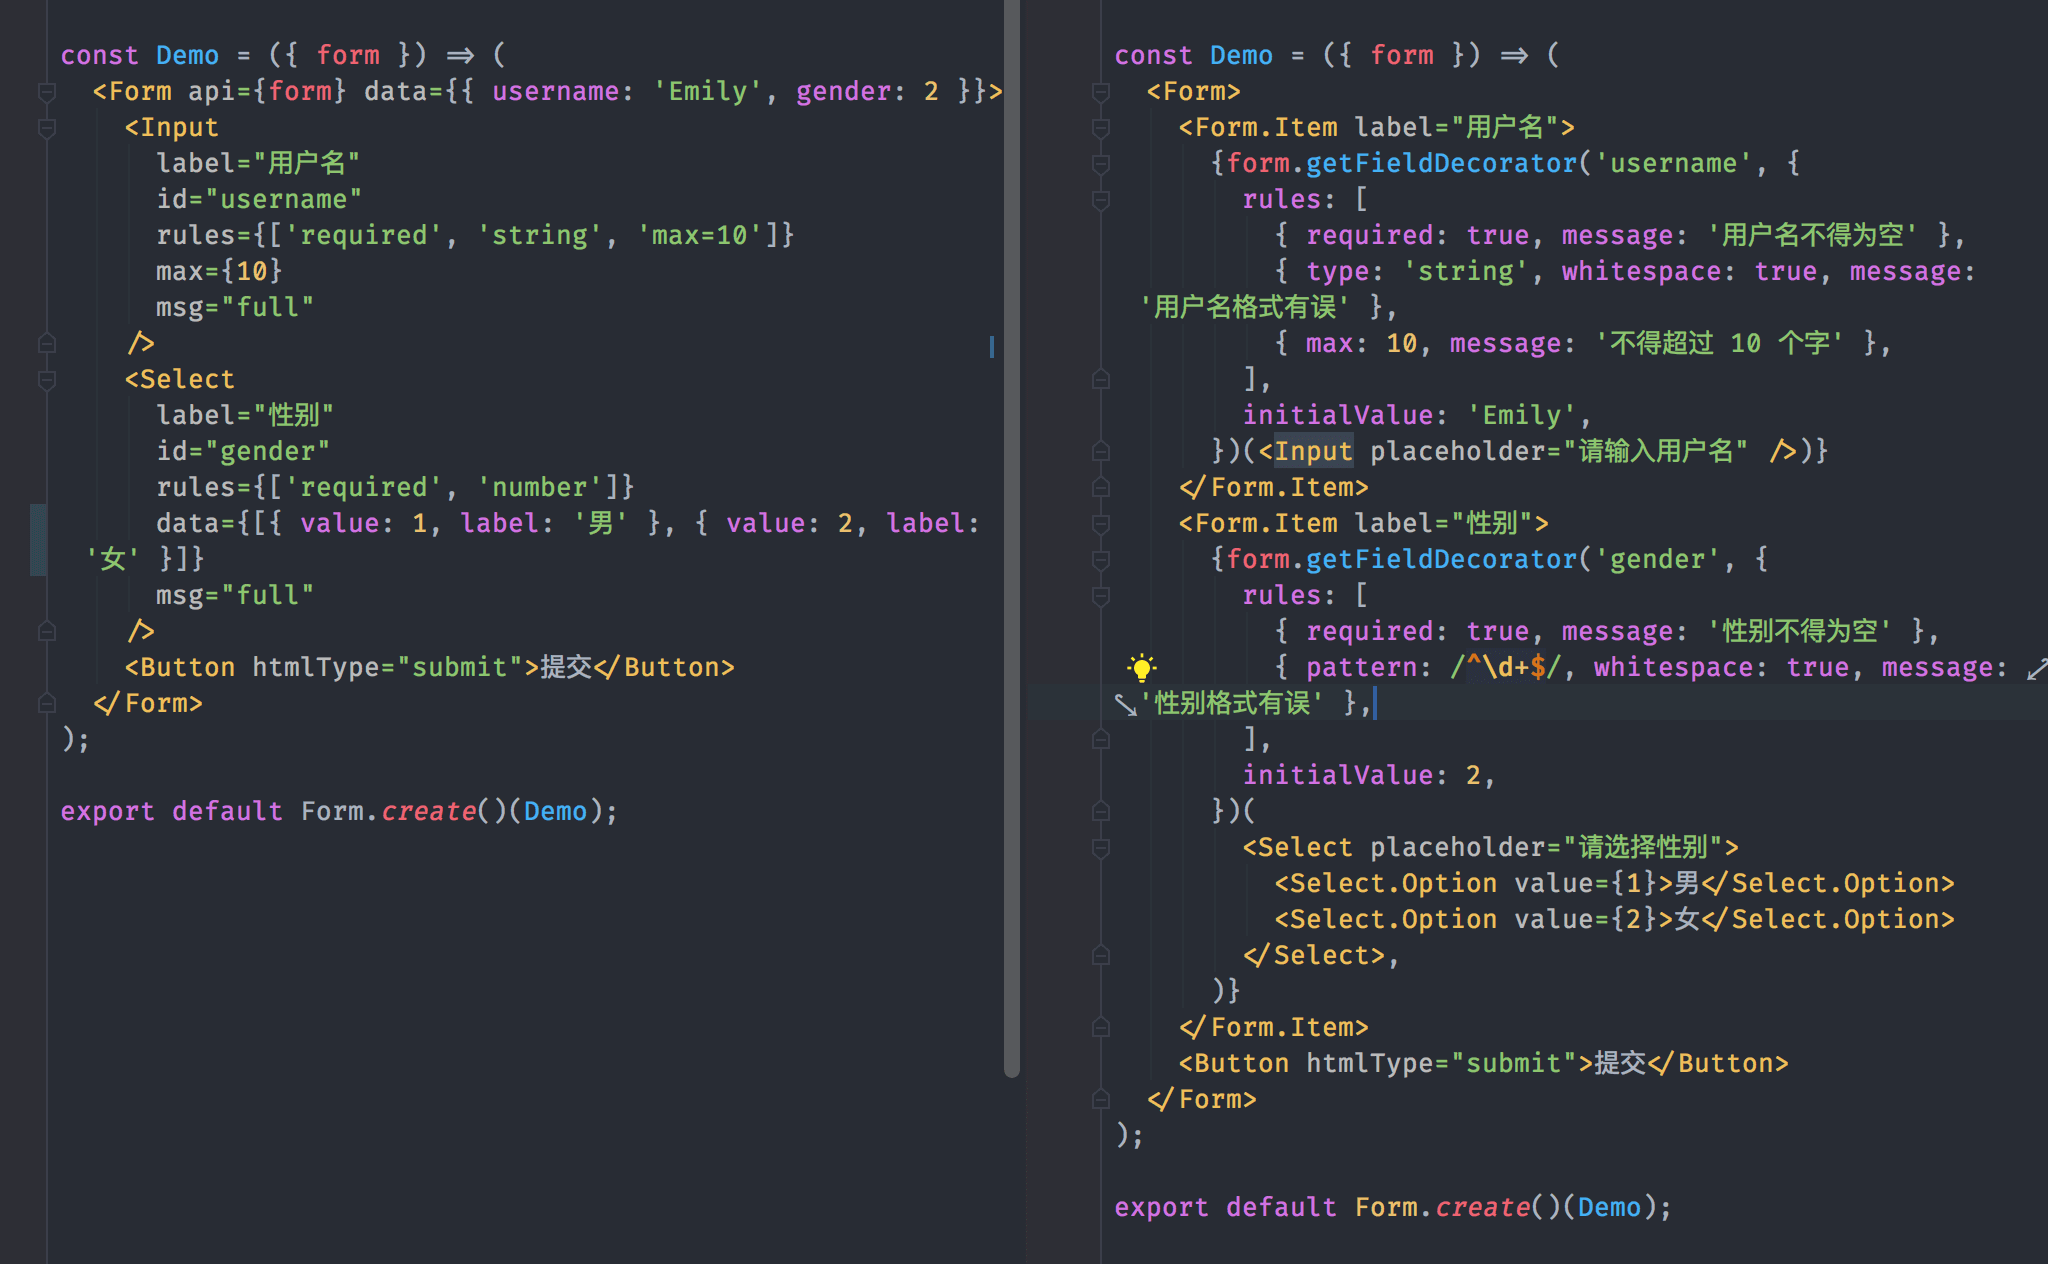
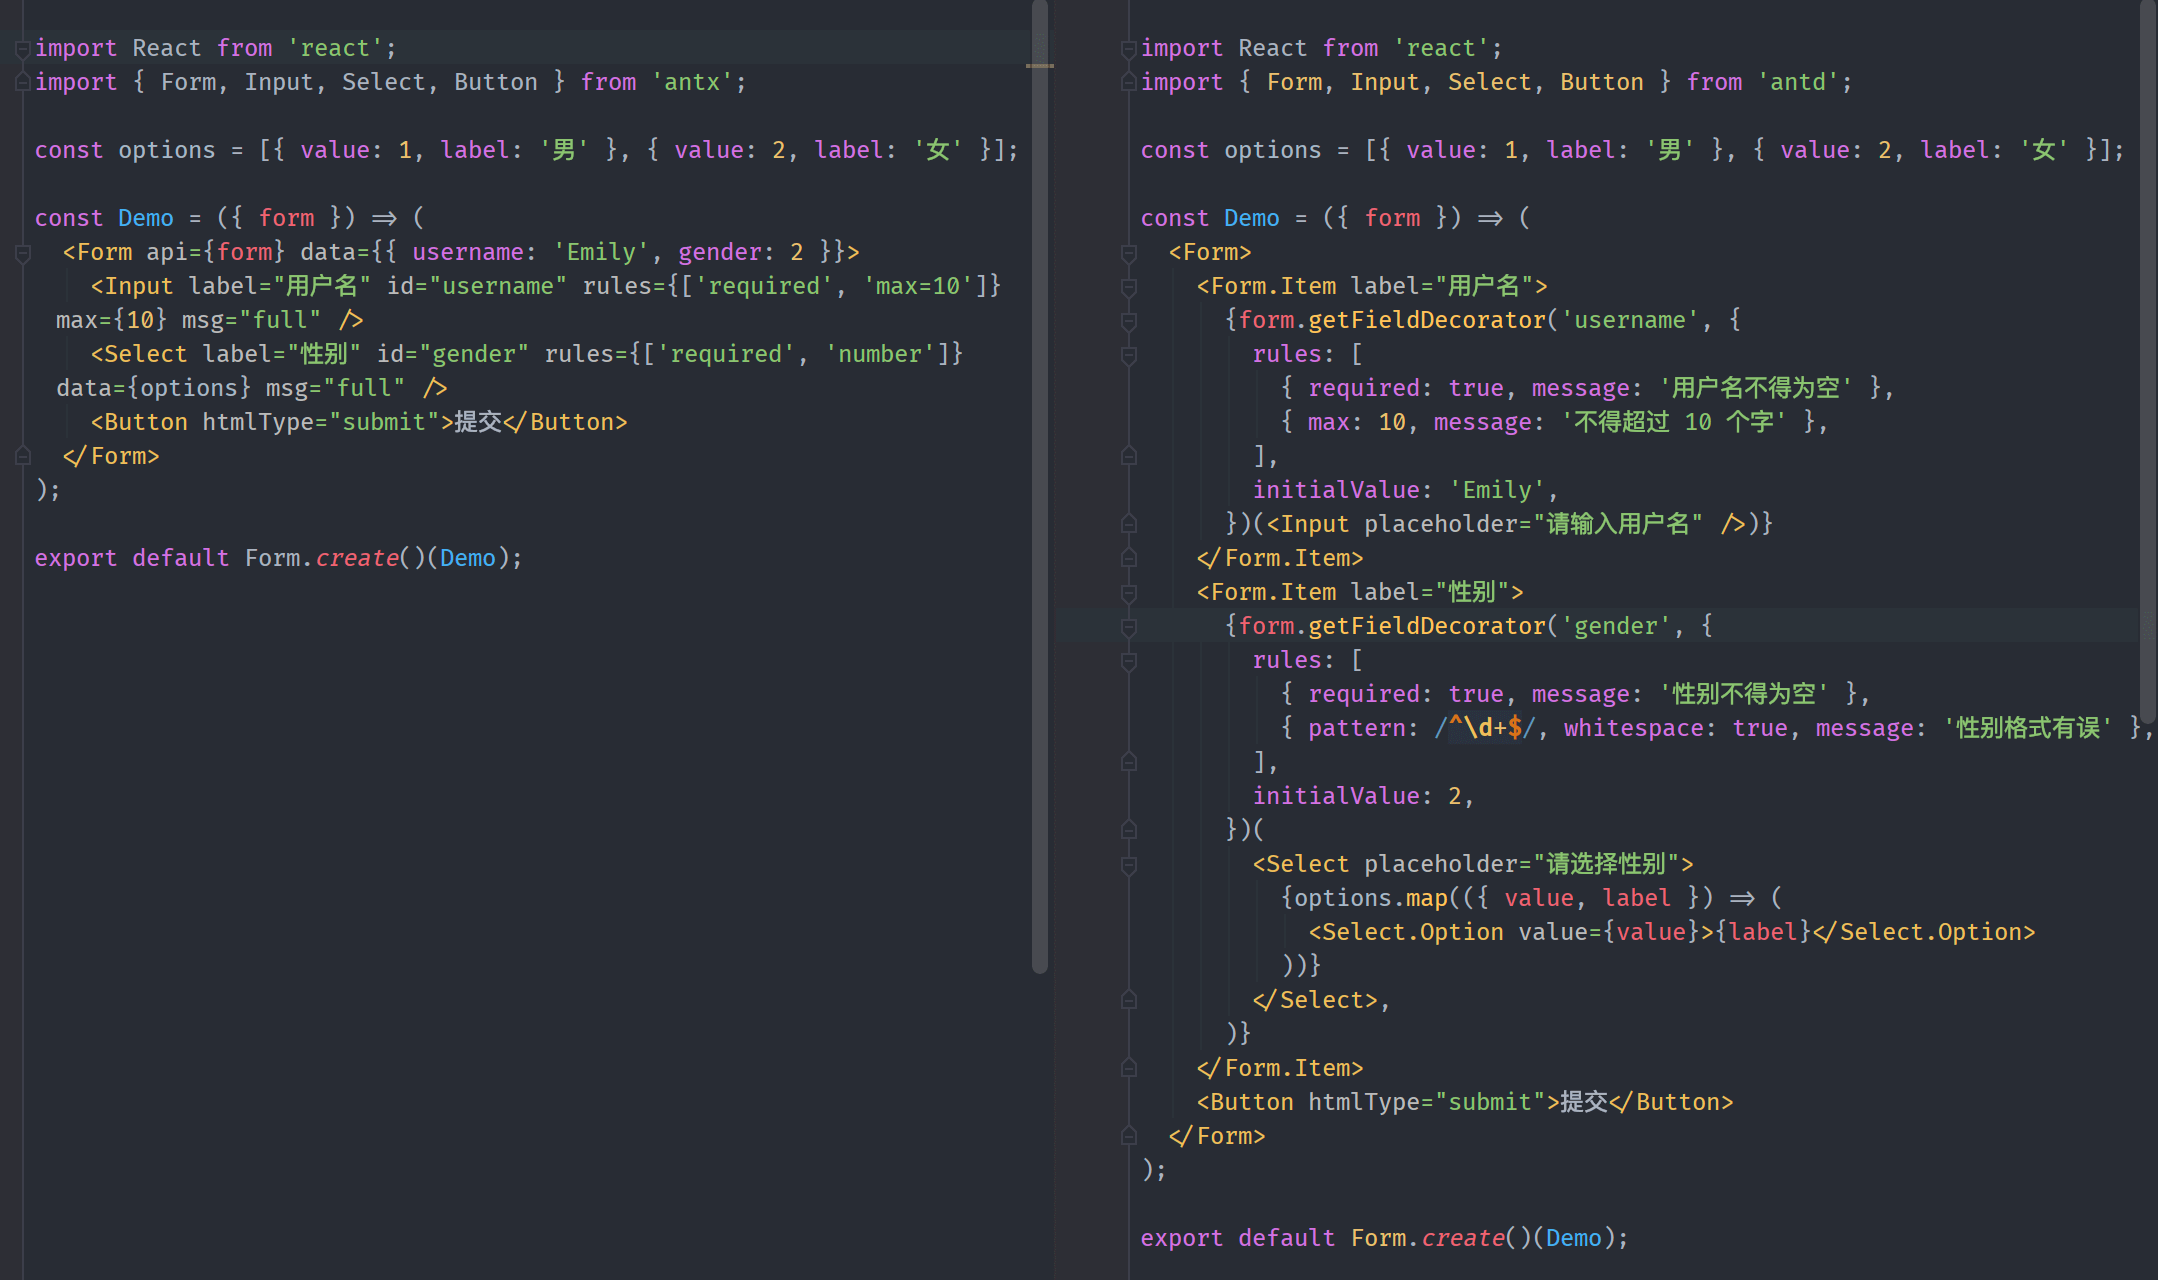
🥮 Update contrast

diff --git a/contrast/antd.jsx b/contrast/antd.jsx
@@ -1,5 +1,9 @@
+/* eslint-disable */
+
 import React from 'react';
 import { Form, Input, Select, Button } from 'antd';
+
+const options = [{ value: 1, label: '男' }, { value: 2, label: '女' }];
 
 const Demo = ({ form }) => (
   <Form>
@@ -7,7 +11,6 @@ const Demo = ({ form }) => (
       {form.getFieldDecorator('username', {
         rules: [
           { required: true, message: '用户名不得为空' },
-          { type: 'string', whitespace: true, message: '用户名格式有误' },
           { max: 10, message: '不得超过 10 个字' },
         ],
         initialValue: 'Emily',
@@ -22,8 +25,9 @@ const Demo = ({ form }) => (
         initialValue: 2,
       })(
         <Select placeholder="请选择性别">
-          <Select.Option value={1}>男</Select.Option>
-          <Select.Option value={2}>女</Select.Option>
+          {options.map(({ value, label }) => (
+            <Select.Option value={value}>{label}</Select.Option>
+          ))}
         </Select>,
       )}
     </Form.Item>

diff --git a/contrast/antx.jsx b/contrast/antx.jsx
@@ -1,22 +1,14 @@
+/* eslint-disable */
+
 import React from 'react';
 import { Form, Input, Select, Button } from 'antx';
 
+const options = [{ value: 1, label: '男' }, { value: 2, label: '女' }];
+
 const Demo = ({ form }) => (
   <Form api={form} data={{ username: 'Emily', gender: 2 }}>
-    <Input
-      label="用户名"
-      id="username"
-      rules={['required', 'string', 'max=10']}
-      max={10}
-      msg="full"
-    />
-    <Select
-      label="性别"
-      id="gender"
-      rules={['required', 'number']}
-      data={[{ value: 1, label: '男' }, { value: 2, label: '女' }]}
-      msg="full"
-    />
+    <Input label="用户名" id="username" rules={['required', 'max=10']} max={10} msg="full" />
+    <Select label="性别" id="gender" rules={['required', 'number']} data={options} msg="full" />
     <Button htmlType="submit">提交</Button>
   </Form>
 );
